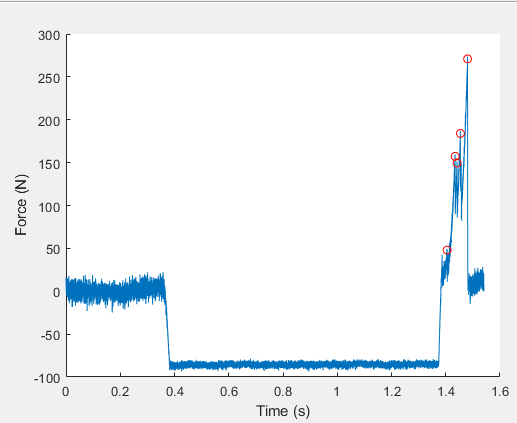
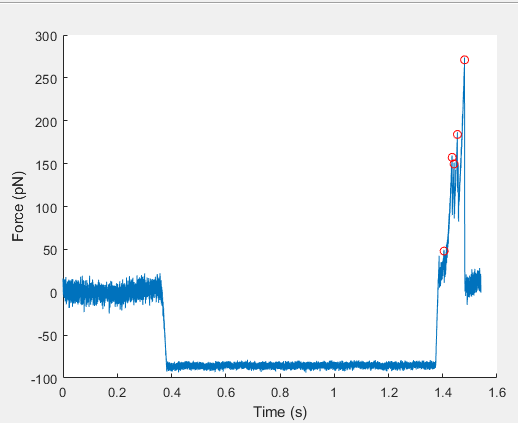
fixedu nit mistake.

diff --git a/AppMatlab/feather_example.m b/AppMatlab/feather_example.m
@@ -48,5 +48,5 @@ function []=feather_example()
         plot(obj.time(indices(i)),obj.force(indices(i))*conv,'ro')
     end
     xlabel('Time (s)');
-    ylabel('Force (N)');
+    ylabel('Force (pN)');
 end
